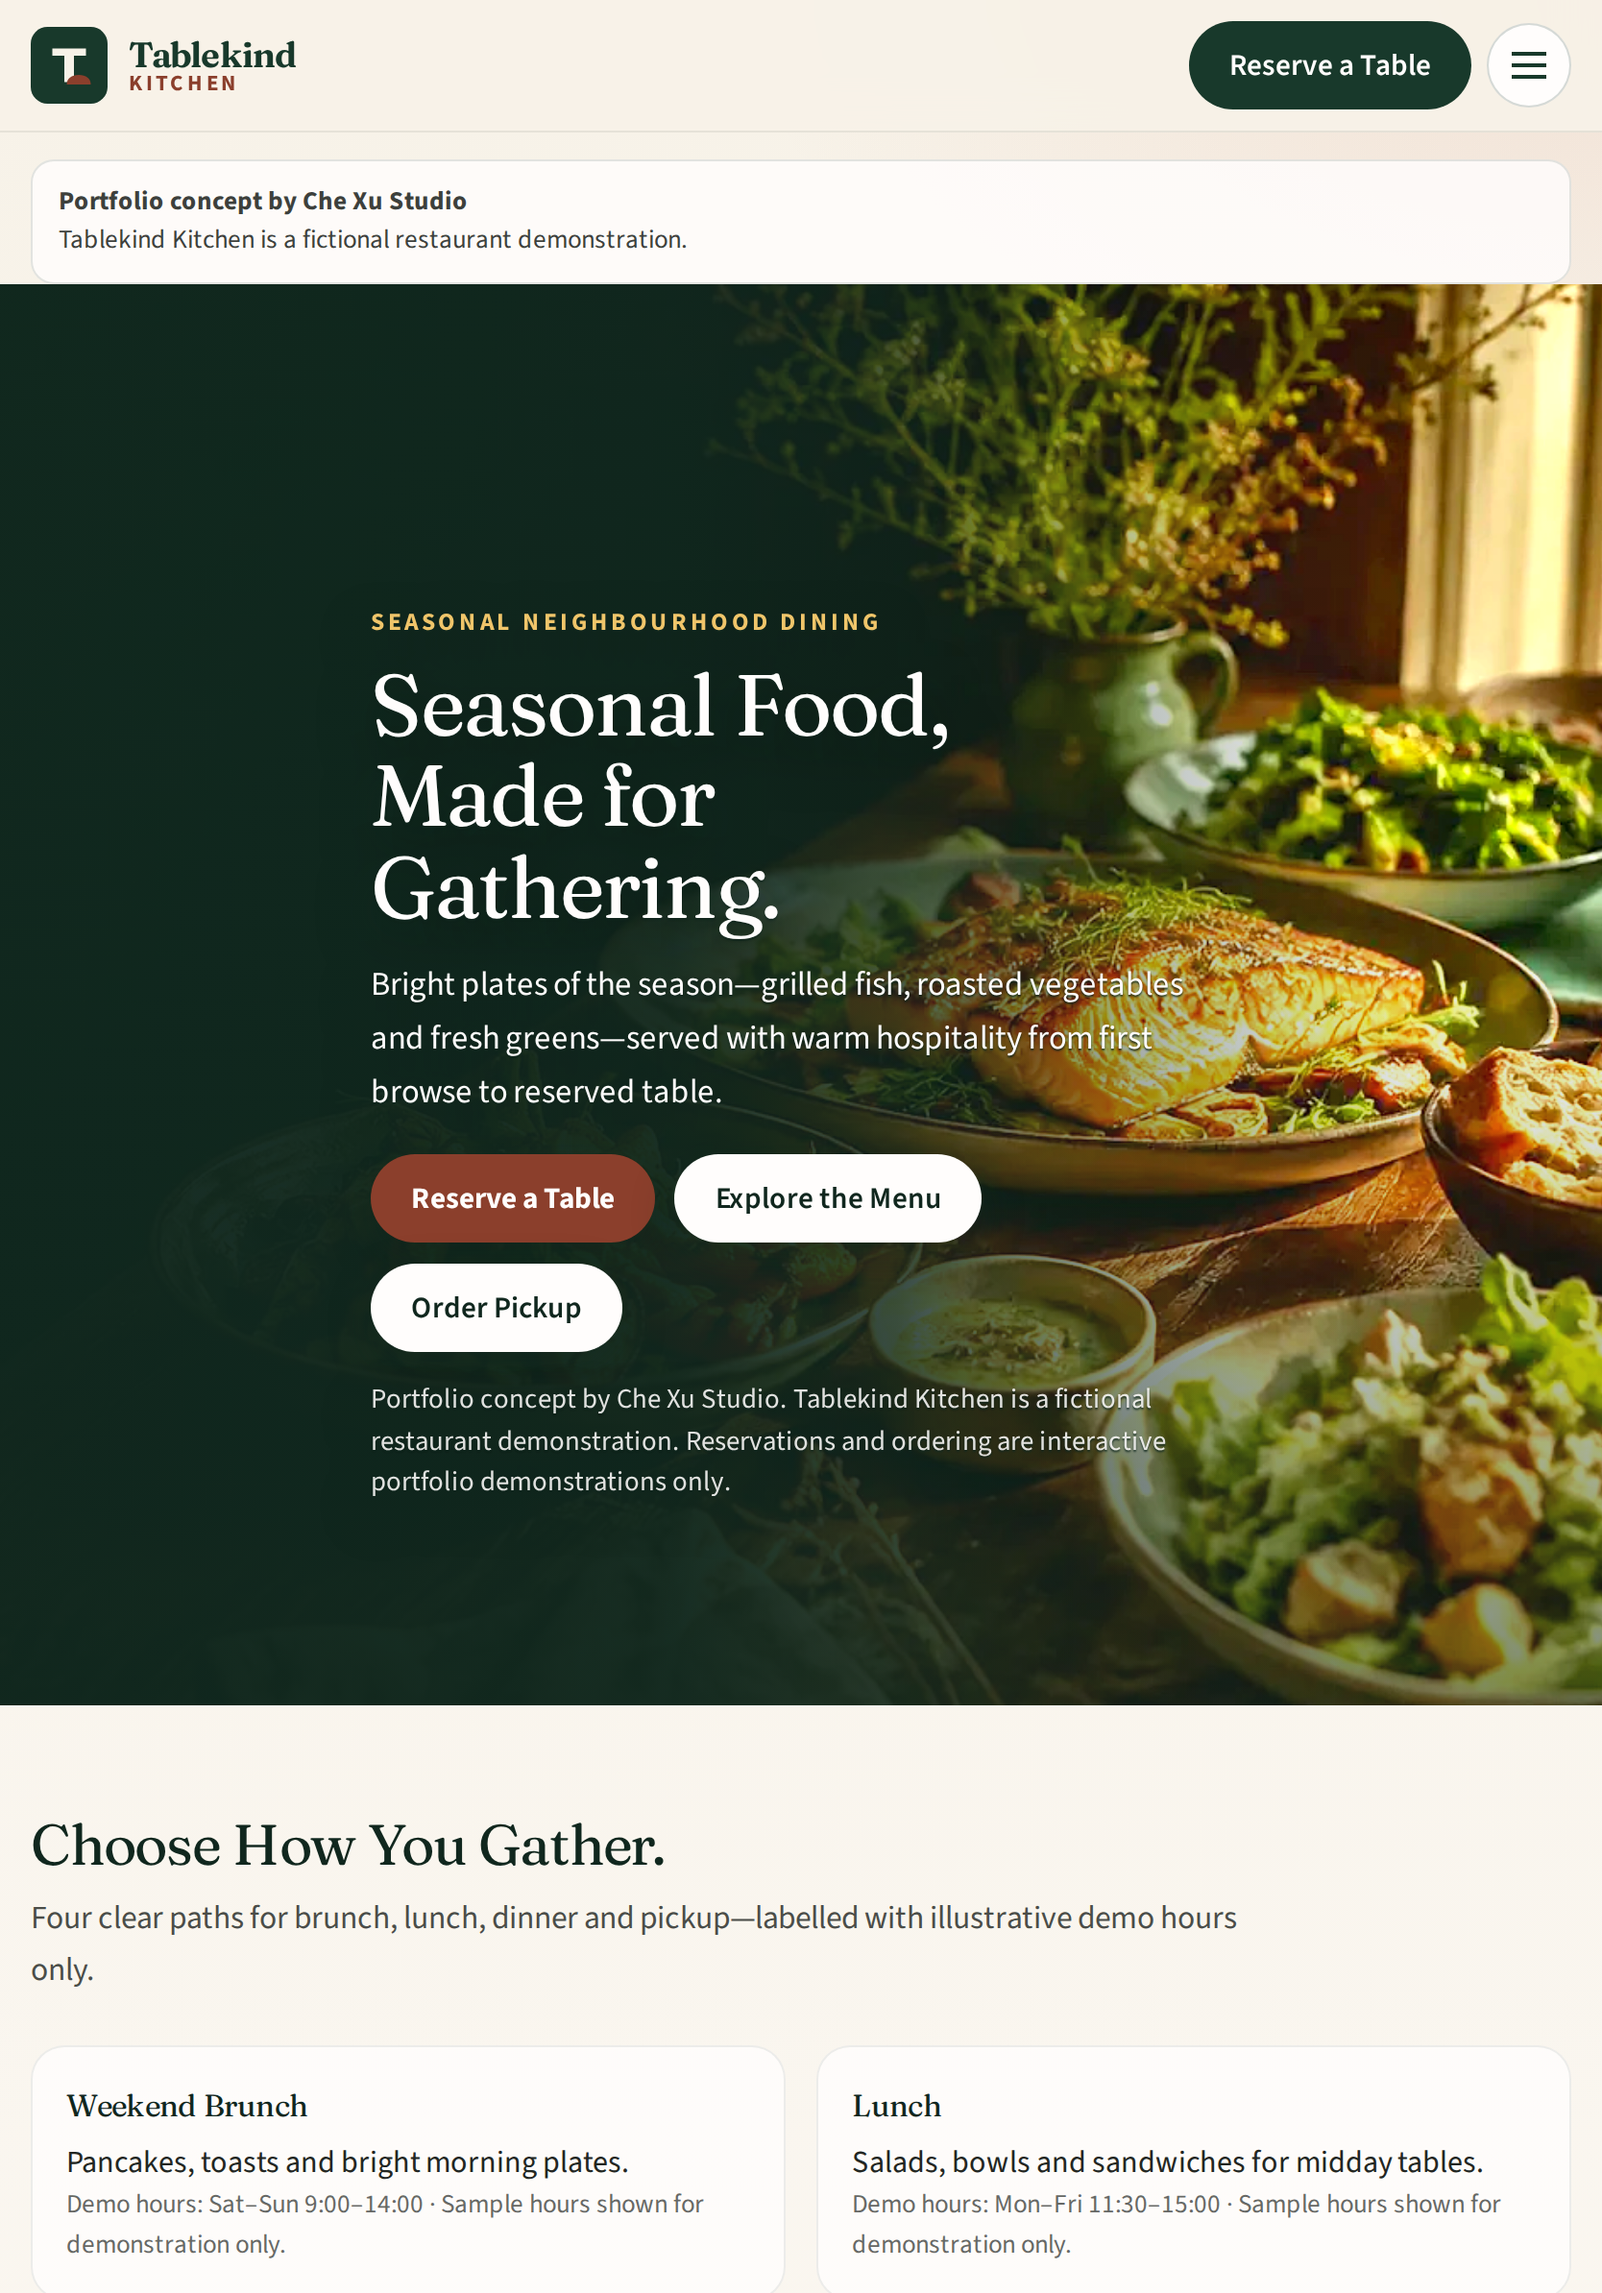
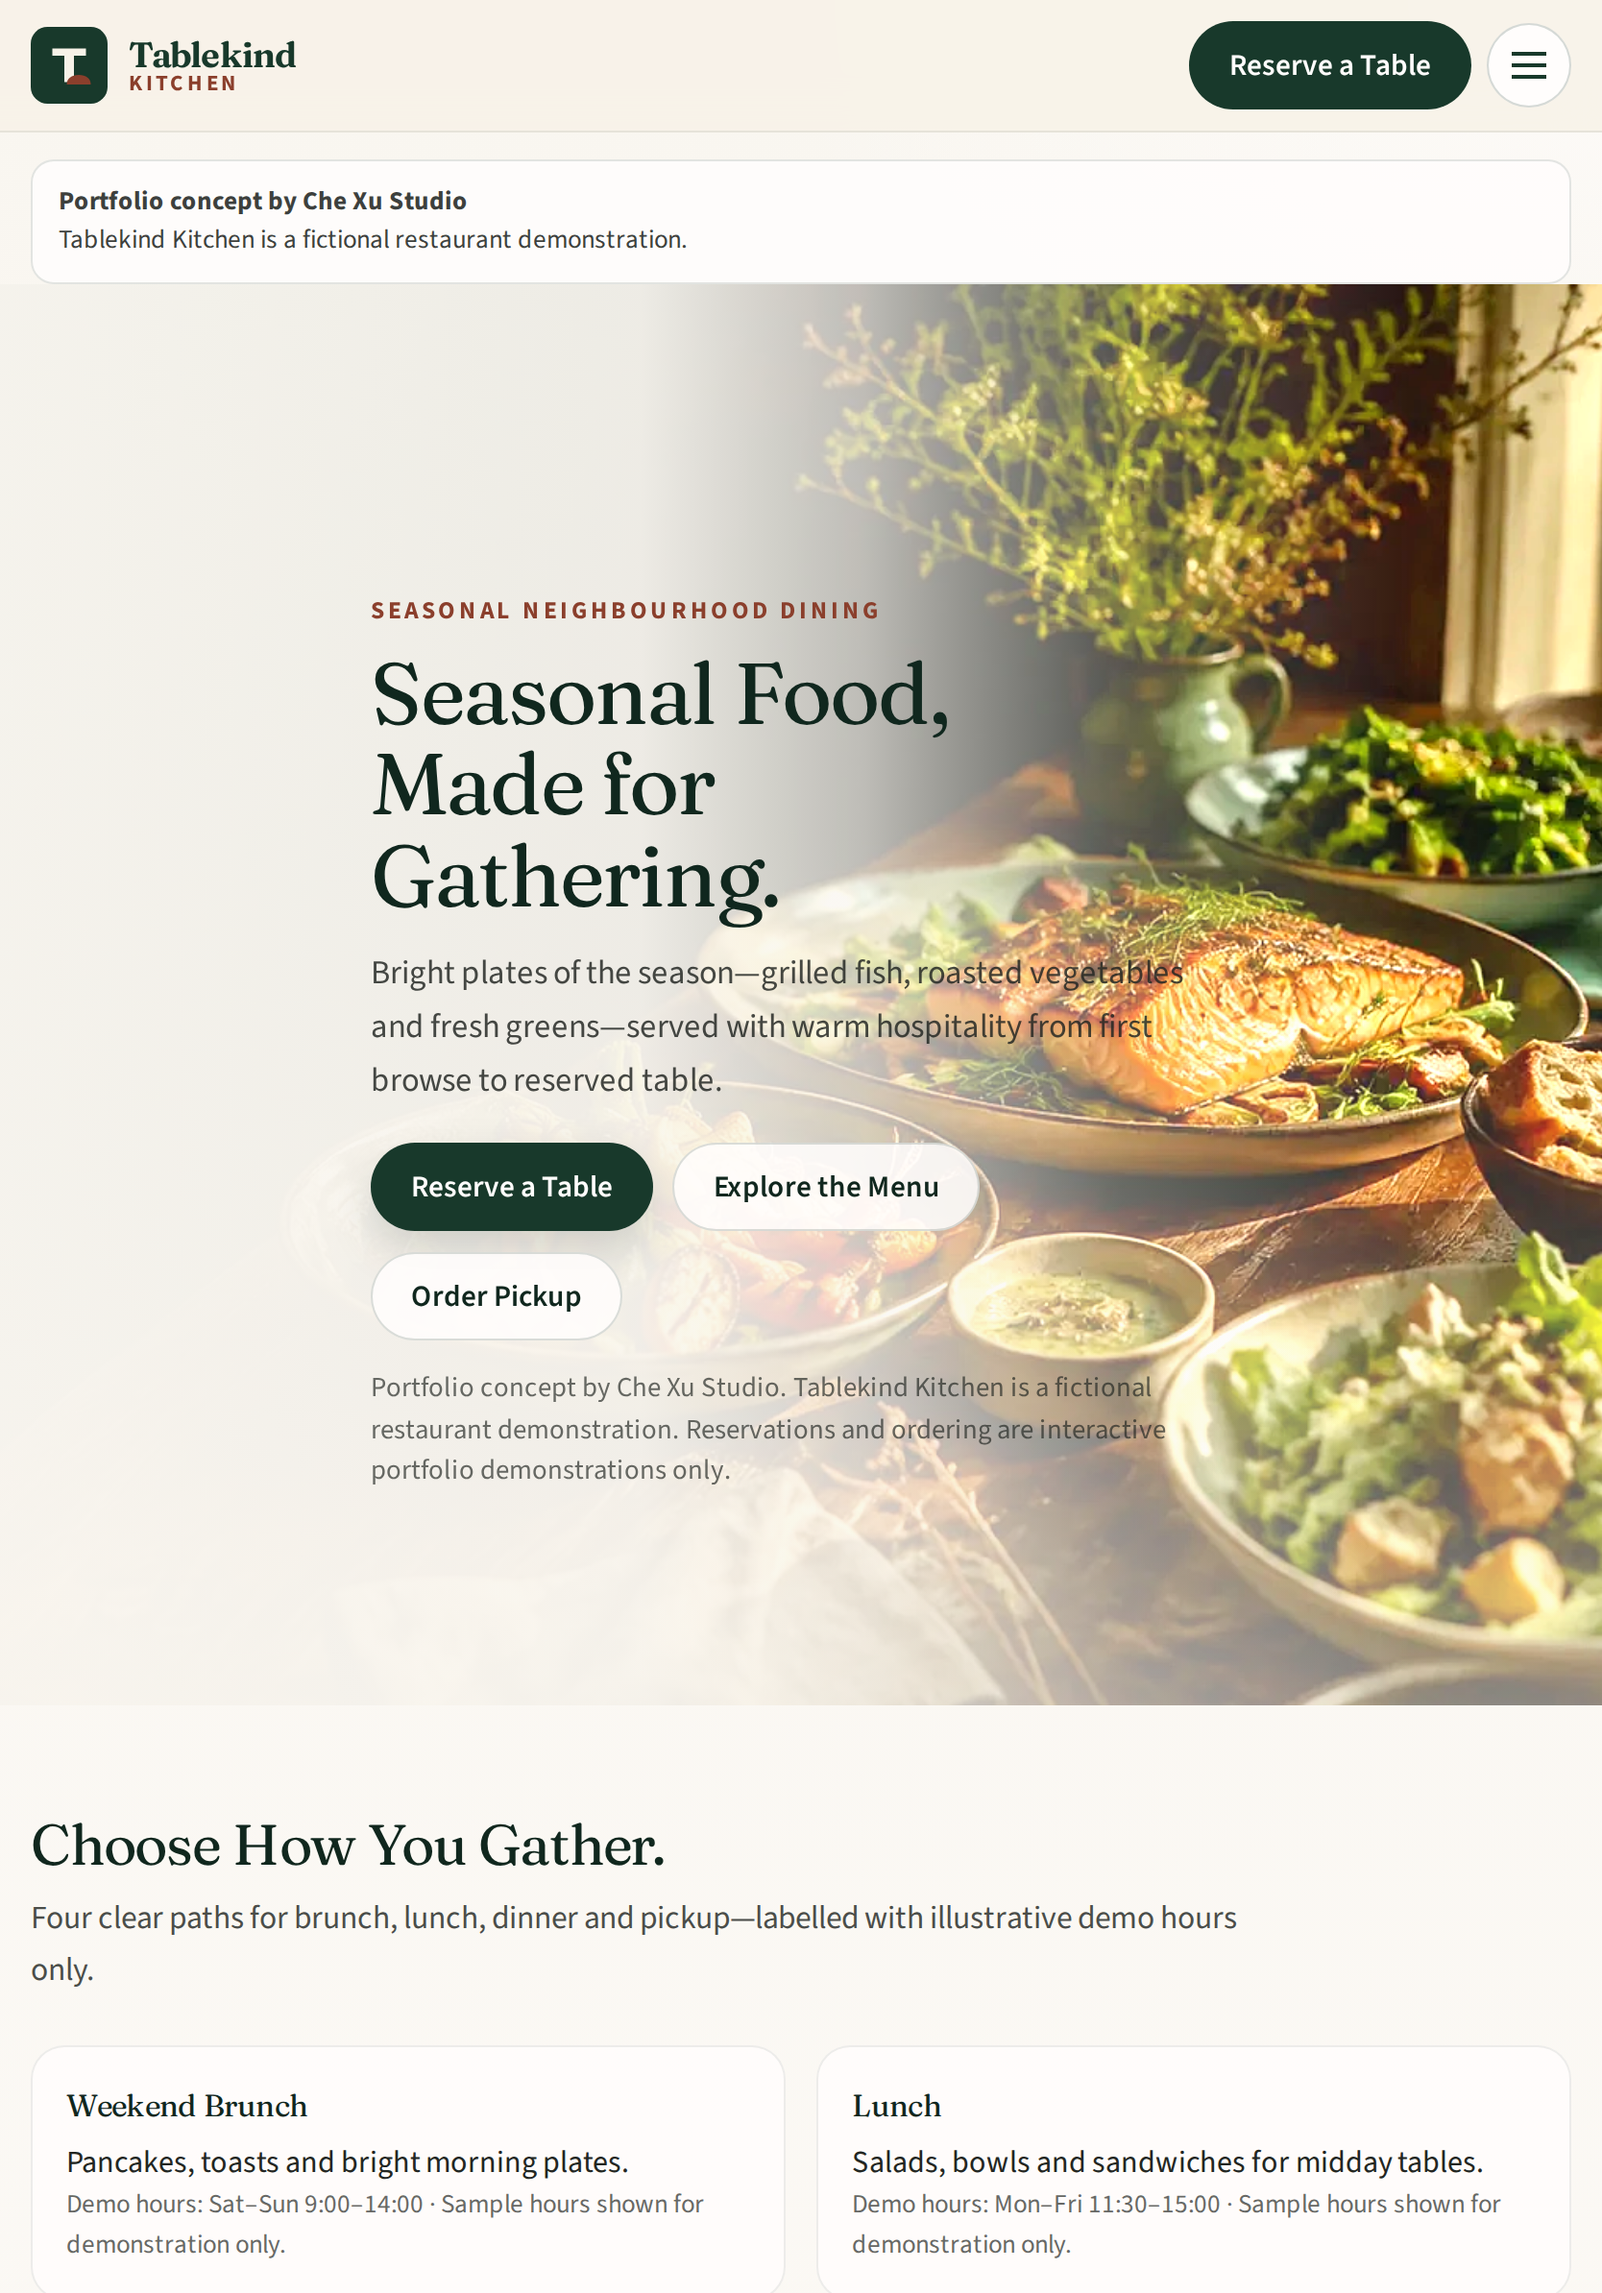
Polish light hero contrast and refresh case-study screenshots
Brighten the full-bleed food plane, tighten the cream reading veil,
improve mobile CTA stacking above the action bar, and regenerate
desktop/tablet/mobile/showcase screenshots for the new appearance.

diff --git a/src/styles/global.css b/src/styles/global.css
@@ -1,6 +1,6 @@
-@import "tailwindcss";
-@import "@fontsource-variable/fraunces/wght.css";
-@import "@fontsource-variable/source-sans-3/wght.css";
+@import 'tailwindcss';
+@import '@fontsource-variable/fraunces/wght.css';
+@import '@fontsource-variable/source-sans-3/wght.css';
 
 @theme {
   --color-forest: #18392b;
@@ -15,10 +15,11 @@
   --color-mist: #e7efe4;
   --color-line: #d8e0d4;
 
-  --font-display: "Fraunces Variable", "Fraunces", "Iowan Old Style", "Palatino Linotype", Palatino,
-    Georgia, serif;
-  --font-sans: "Source Sans 3 Variable", "Source Sans 3", "Segoe UI", "Helvetica Neue", Arial,
-    sans-serif;
+  --font-display:
+    'Fraunces Variable', 'Fraunces', 'Iowan Old Style', 'Palatino Linotype', Palatino, Georgia,
+    serif;
+  --font-sans:
+    'Source Sans 3 Variable', 'Source Sans 3', 'Segoe UI', 'Helvetica Neue', Arial, sans-serif;
 
   --radius-sm: 0.375rem;
   --radius-md: 0.75rem;
@@ -273,12 +274,12 @@
         rgb(249 246 240 / 0.28) 68%,
         transparent 88%
       ),
-      url("/images/tablekind-kitchen-seasonal-gathering-hero.webp") 78% 42% / cover no-repeat;
+      url('/images/tablekind-kitchen-seasonal-gathering-hero.webp') 78% 42% / cover no-repeat;
     color: var(--color-deep);
   }
 
   .hero-atmosphere::after {
-    content: "";
+    content: '';
     position: absolute;
     inset: auto 0 0;
     height: 28%;
